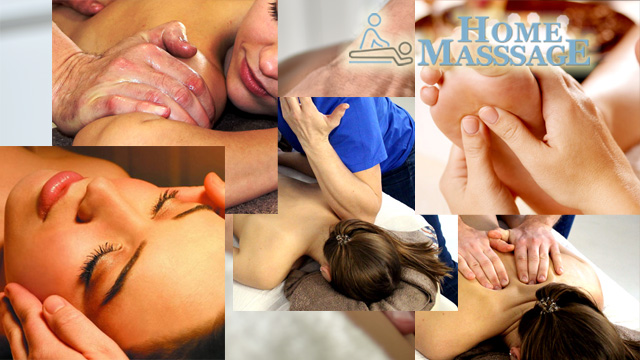
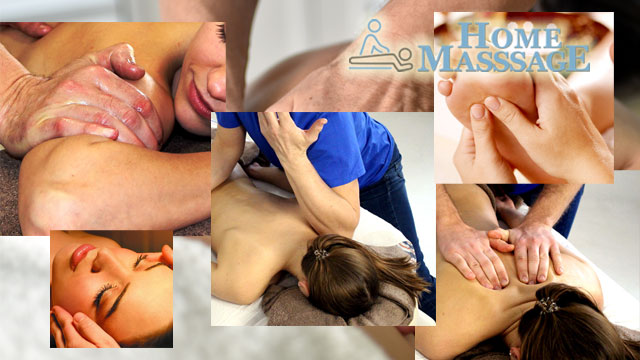
260213_1

diff --git a/bot_new.py b/bot_new.py
@@ -25,7 +25,17 @@ from order_util import (
     order_certificate,
     order_certificate_button,
 )
-from buttons import BUTTONS_MAIN, BUTTONS_MENU, BUSINESS_INFO, SYSTEM_PROMPT, FAQ
+from buttons import (
+    BUTTONS_MAIN,
+    BUTTONS_ORDER_SERVICE,
+    # BUTTONS_MASSAGE,
+    MODE_MAPPING,
+    BUTTONS_MENU,
+    BUSINESS_INFO,
+    SYSTEM_PROMPT,
+    FAQ,
+    BUTTONS_SERVICE,
+)
 
 # =======================
 # Load API keys
@@ -33,6 +43,8 @@ from buttons import BUTTONS_MAIN, BUTTONS_MENU, BUSINESS_INFO, SYSTEM_PROMPT, FA
 load_dotenv()
 TOKEN_TELEGRAM = os.getenv("TOKEN_TELEGRAM")
 TOKEN_GPT = os.getenv("TOKEN_GPT")
+
+MAX_HISTORY = 5  # обмежуємо історію повідомлень до останніх 10 повідомлень
 
 
 # =======================
@@ -48,8 +60,6 @@ async def handle_gpt(update, context):
     user_text = update.message.text
     dialog.list_.append(user_text)
 
-    # обмежуємо історію до останніх 10 повідомлень
-    MAX_HISTORY = 5
     dialog.list_ = dialog.list_[-MAX_HISTORY:]
 
     user_history = "\n\n".join(dialog.list_)
@@ -79,20 +89,11 @@ async def handle_gpt(update, context):
 # =======================
 # Button mapping
 # =======================
-MODE_MAPPING = {
-    "main_helper": "helper",
-    "main_price": "price",
-    "main_location": "location",
-    "main_info": "info",
-    "main_order": "order",
-    "main_types": "massage",
-    "main_certificate": "certificate",
-}
 
 
 async def main_button(update, context):
     query = update.callback_query.data
-    print(">>>>>> main_button >>>>>>> query:", query) # debug
+    print(">>>>>> main_button >>>>>>> query:", query)  # debug
     try:
         await update.callback_query.answer()
     except Exception:
@@ -100,7 +101,7 @@ async def main_button(update, context):
 
     mode = MODE_MAPPING.get(query)
     dialog.mode = mode
-    print('mode: ', mode)
+    print("mode: ", mode)
     if mode:
         if mode == "order":
             await order(update, context)
@@ -108,6 +109,8 @@ async def main_button(update, context):
             await info(update, context)
         elif mode == "certificate":
             await order_certificate(update, context)
+        elif mode == "massage":
+            await massage(update, context)
         else:
             await set_mode(mode, update, context)
     else:
@@ -136,6 +139,50 @@ async def faq_button(update, context):
         await send_html(update, context, answer)
     else:
         await send_text(update, context, "Вибачте, відповідь недоступна.")
+
+
+# =======================
+# Massage selection buttons
+# =======================
+async def massage(update, context):
+    dialog.mode = "massage"
+    await header(update, context, BUTTONS_SERVICE)
+
+
+async def services_button(update, context):
+    query = update.callback_query.data
+    print('query: ', query) # debug
+    try:
+        await update.callback_query.answer()
+    except Exception:
+        pass
+
+    service = BUTTONS_SERVICE.get(query)
+    print('service: ', service)
+    if service:
+        dialog.mode = query
+        dialog.service = service
+        print('dialog.service: ', dialog.service)
+        await header(update, context, BUTTONS_ORDER_SERVICE)  # show header again
+        # await send_text(update, context, f"Інформація про послугу:\n\n{service}")
+    else:
+        await send_text(update, context, "Вибачте, інформація недоступна.")
+
+
+async def choice_button(update, context):
+    query = update.callback_query.data
+    try:
+        await update.callback_query.answer()
+    except Exception:
+        pass
+
+    if query == "choice_service":
+        await order(update, context, from_service=True)
+    elif query == "choice_go_back":
+        dialog.mode = "massage"
+        await massage(update, context)
+    else:
+        await send_text(update, context, "Вибачте, вибір недоступний.")
 
 
 # =======================
@@ -200,7 +247,11 @@ if __name__ == "__main__":
     app.add_handler(CallbackQueryHandler(order_phone_button, pattern="^order_phone_.*"))
     app.add_handler(CallbackQueryHandler(order_massage_button, pattern="^massage_.*"))
     app.add_handler(CallbackQueryHandler(faq_button, pattern="^faq_.*"))
-    app.add_handler(CallbackQueryHandler(order_certificate_button, pattern="^order_certificate$"))
-    app.add_handler(CallbackQueryHandler(order_certificate, pattern="^order_certificate_.*"))
+    app.add_handler(CallbackQueryHandler(services_button, pattern="^service_.*"))
+    app.add_handler(
+        CallbackQueryHandler(order_certificate_button, pattern="^order_certificate$")
+    )
+    app.add_handler(CallbackQueryHandler(choice_button, pattern="^choice_.*"))
+    # app.add_handler(CallbackQueryHandler(order_certificate, pattern="^order_certificate_.*"))
 
     app.run_polling()

diff --git a/buttons.py b/buttons.py
@@ -9,12 +9,22 @@ BUTTONS_MAIN = {
     # "main_info": "Інформація про Home.Masssage",
 }
 
+MODE_MAPPING = {
+    "main_helper": "helper",
+    "main_price": "price",
+    "main_location": "location",
+    "main_info": "info",
+    "main_order": "order",
+    "main_types": "massage",
+    "main_certificate": "certificate",
+}
+
 BUTTONS_MENU = {
     "start": "головне меню бота",
     "order": "Замовити масаж",
     "helper": "Допомога у виборі масажу",
-    "price": "Ціна на послуги",
-    "location": "Де ми працюємо",
+    # "price": "Ціна на послуги",
+    # "location": "Де ми працюємо",
     "info": "Питання та відповіді",
     "gpt": "задати питання чату GPT 🧠",
 }
@@ -30,10 +40,31 @@ BUTTONS_MASSAGE = {
     "massage_custom": "Свій варіант 🙌",
 }
 
+BUTTONS_SERVICE = {
+    "service_full": "Загальний масаж",
+    "service_back": "Масаж спини",
+    "service_sport": "Спортивний масаж",
+    "service_cellulite": "Антицелюлітний масаж",
+    "service_office": "Офісний масаж",
+    "service_thai": "Тайський масаж",
+    "service_toksen": "Масаж Ток-Сен",
+    "service_sabai": "Масаж Сабай",
+    "service_bamboo": "Масаж Бамбуком",
+    "service_lomi": "Масаж Ломі-Ломі",
+    "service_face": "Масаж обличчя",
+    "service_certificate": "Подарунковий сертифікат",
+    "service_noname": "Ще не визначено 🙌",
+}
+
 BUTTON_CERTIFICATE = {
     "order_certificate": "Замовити сертифікат",
     # "faq_certificate": "Питання та відповіді про сертифікат",
 }
+
+BUTTONS_ORDER_SERVICE = {
+    "choice_service": "Замовити",
+    "choice_go_back": "Повернутися до вибору",
+}    
 
 # =======================
 # Business Info (структуровані дані)

diff --git a/util.py b/util.py
@@ -158,11 +158,13 @@ def load_prompt(name):
 
 class Dialog:
     mode: str
+    service: str
     list_: list
     user: dict
 
-    def __init__(self, mode="", list_=[], user={}):
+    def __init__(self, mode="", service="", list_=[], user={}):
         self.mode = mode
+        self.service = service
         self.list_ = list_
         self.user = user
 
